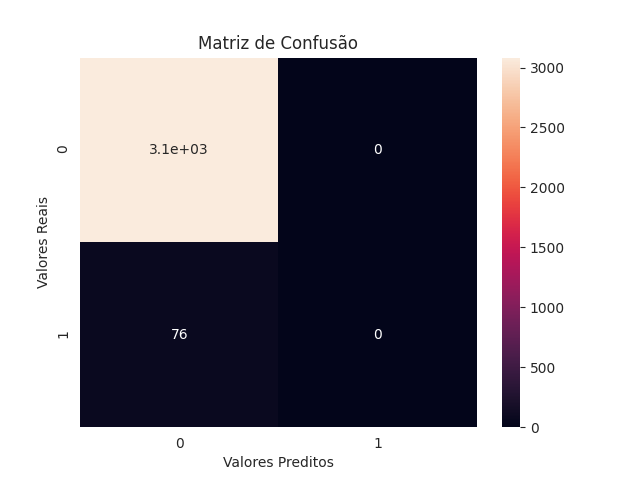
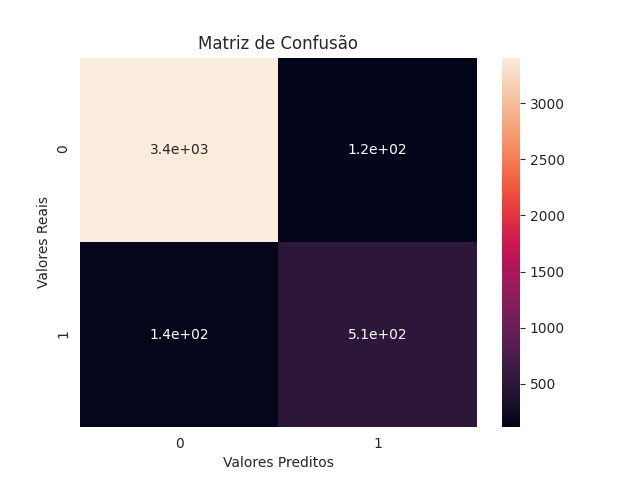
[UPD] Realizado um teste de um mesmo modelo nos 4 datasets com tamanho dos textos variados

diff --git a/01teste.py b/01teste.py
@@ -6,7 +6,7 @@ from models.ModelLSTM import ModelLSTM
 from sklearn.model_selection import train_test_split
 
 
-def generateData():
+def generateData(csv_name):
     """
     Busca os dados e organiza para utilização nos modelos
 
@@ -14,7 +14,7 @@ def generateData():
     :rtype: dict
     """
     # realiza a leitura do CSV
-    df = pd.read_csv('dataset_converted.csv', index_col=0)
+    df = pd.read_csv(csv_name, index_col=0)
     print('Dataset: ')
     print(df.head())
 
@@ -54,7 +54,7 @@ def generateMLP(data):
     :type data: dict
     """
     model = {
-        'epochs': 6,
+        'epochs': 50,
         'batch_size': 1,
         'layers': [
             # camada de entrada
@@ -118,6 +118,11 @@ def generateLSTM(data):
     model_lstm.predict()
 
 
+TEXT_LENGTH = [50, 100, 150, 200]
+PATH_DATASETS_FORMATTED = 'datasets/formatted/'
+PATH_DATASETS_CONVERTED = 'datasets/converted/'
+
+
 def main():
     """
     Método main do script
@@ -125,8 +130,12 @@ def main():
     print('Iniciando a detecção de fake news')
     inicio = time.time()
 
-    data = generateData()
-    generateMLP(data)
+    # realiza um teste de um mesmo modelo nos 4 datasets com tamanho dos textos variados
+    for dataset_atual in TEXT_LENGTH:
+        dataset_nome = PATH_DATASETS_CONVERTED + 'dataset_%i_palavras.csv' % dataset_atual
+        print('\n\n' + dataset_nome)
+        data = generateData(dataset_nome)
+        generateMLP(data)
     # generateLSTM(data)
 
     fim = time.time()
